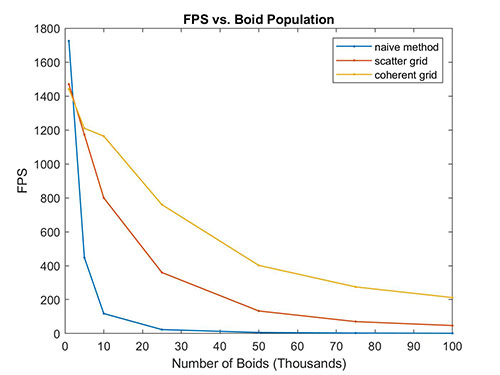
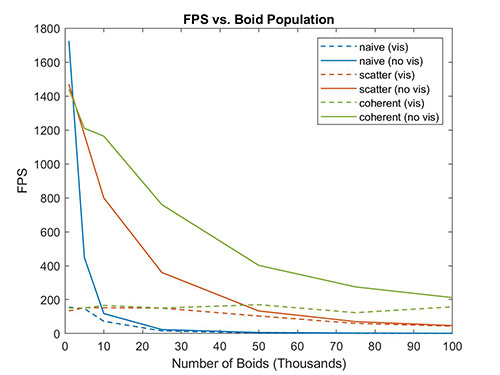
update images

diff --git a/README.md b/README.md
@@ -1,3 +1,4 @@
+![](images/top_image.gif)
 # Project 1 - Flocking
 **University of Pennsylvania, CIS 565: GPU Programming and Architecture, Project 1 - Flocking**
 
@@ -14,10 +15,12 @@
 
 ## Performance Analysis
 ### 1. Number of Boids
-The figure below shows the performance vs boid population curve with visualization turned off. We can observe:
+The figure below shows the relationship between performance and boid population. We can observe:
  - For all three methods, performance decrease as the number of boids increase. 
  - The naive method has the best performance when the number of boids are small (below 1.5k), but it decays rapidly as the number of boids increase. 
  - The coherent uniform grid has the best performance when the number of boids are large.
+  - Visualization generally decrease the framerate.
+  - When the number of boids is small, visualization is the performance bottleneck; When the number of boids is large, computation takes over.
 
  ![](images/population_fps.jpg)
 
@@ -54,4 +57,3 @@ Though the number of cells needs to be check is larger, the actual volume that i
  - Checking 27 Cells with 1-unit width is equivalent to checking a volume of 3\*3\*3=27 units.
 
  Therefore checking 27 cells with half the cell width means checking less boids and faster computation.
- 
